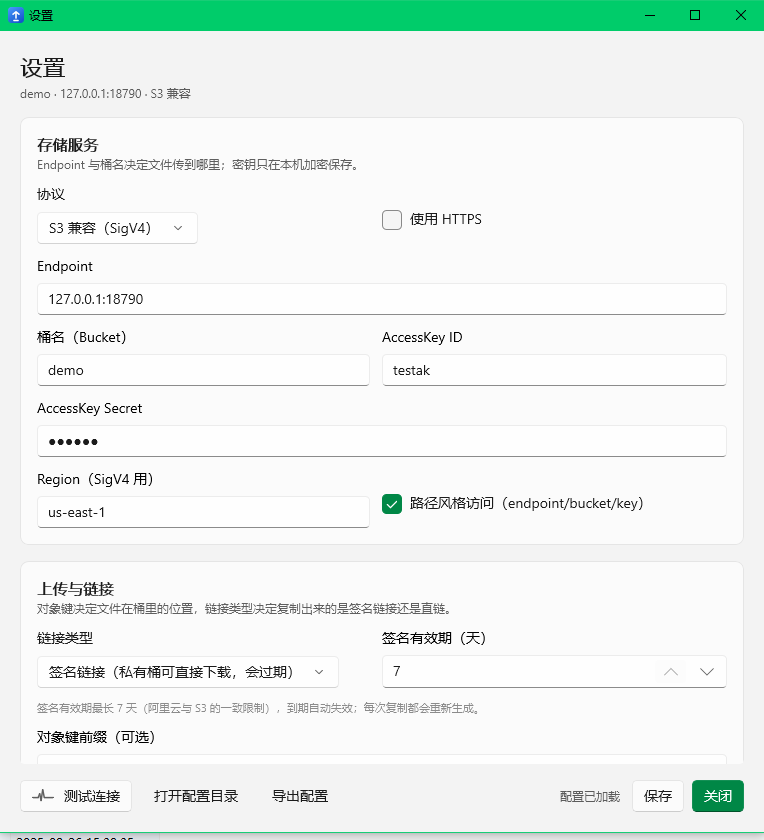
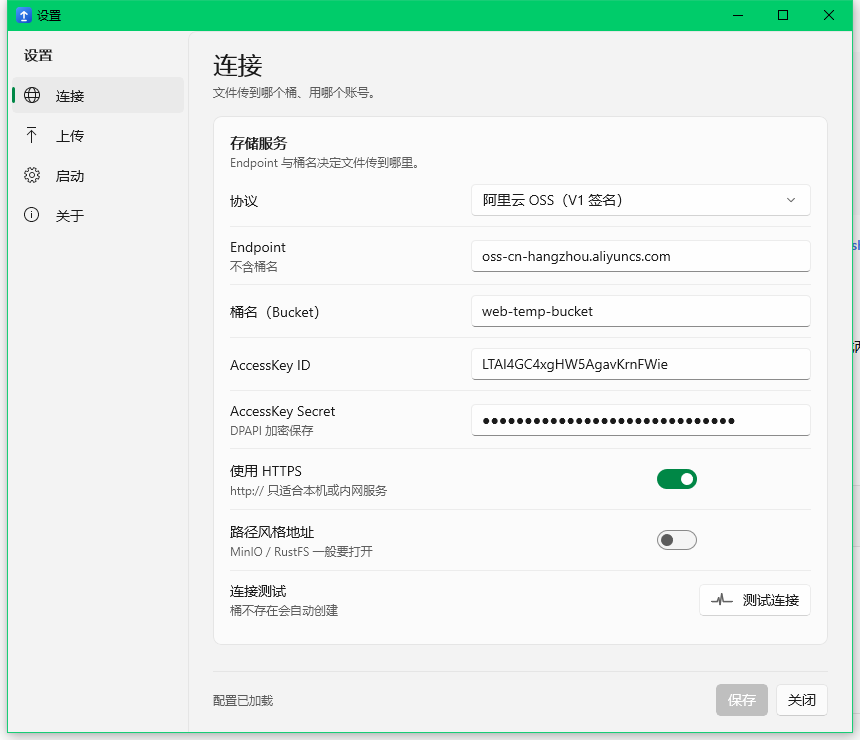
docs: 补设置页新布局、原生导航与保存策略的说明
- usage.md：设置项按「连接 / 上传 / 启动 / 关于」四个分类重写，写清开关即时保存、输入框点「保存」才落盘，
  以及带未保存输入关窗时的三个选项
- verification.md：记录 Fluent 排法、原生 NavigationView、860×740 一屏放得下，以及 16 项保存回归
- development.md：项目结构与回归脚本用法同步，补三个坑（Close() 在回调里不生效、UseClosingGuard 是钩子、
  原生导航项在 UIA 里是 ListItem）
- AGENTS.md：回归脚本表补 settings-save-test.ps1
- 换掉 docs/screenshot-settings.png

diff --git a/docs/development.md b/docs/development.md
@@ -70,7 +70,7 @@ src/FileUploader.App/               WinUI 3 + Reactor 界面
   UploadQueue.cs                    全局上传队列（主窗口与气泡共用）
   AppWindows.cs                     窗口切换：主窗口 / 设置 / 气泡 / 托盘图标与菜单
   UploadApp.Uploading.cs            上传队列（并发 3、进度、取消、历史落盘）
-  SettingsWindow.cs                 独立的设置窗口（存储 + 上传与链接 + 启动与托盘 + 关于与更新）
+  SettingsWindow.cs                 独立的设置窗口（左侧分类：连接 / 上传 / 启动 / 关于；输入框点「保存」才落盘）
   StartupRegistration.cs            开机自启（HKCU Run 启动项：写入 / 删除 / 启动时校正）
   AppVersion.cs                     当前版本号（来自 csproj 的 <Version>，发版时由 tag 覆盖）
   SingleInstance.cs                 同一份 exe 只跑一份（锁名带 exe 路径哈希，副本之间互不影响）
@@ -102,6 +102,13 @@ dotnet run --project tools\FileUploader.Verify -c Release -- multipart
 ```
 
 回归脚本清单与约定见 [AGENTS.md](../AGENTS.md) §5（全部在 `tools/` 下，优先 UI Automation 或直接消息断言，不依赖真实鼠标）。
+
+设置页的保存策略回归（会临时改 `settings.json` 里的 `KeyPrefix`，跑完自动改回去）：
+
+```powershell
+# 输入框不落盘 → 点保存才写盘 → 关窗提示 → 不保存丢草稿（16 项）
+pwsh -NoProfile -File tools\settings-save-test.ps1
+```
 
 更新的两条端到端回归：
 
@@ -209,7 +216,8 @@ pwsh -File tools\uia-resume-test.ps1 -DumpTexts -DumpButtons
 - **便携版不再自我替换**（0.4.0 起）：便携版就是用户手上的一个文件，自替换在 U 盘/只读目录/多副本场景下只会失败，而且用户没法留旧版回滚。现在便携版只「下载新版 + 给出路径和 SHA256」，替换留给人。
 - **静默升级要有人把程序拉起来**：应用启动安装器后自己就退出了，`[Run]` 里配 `Flags: nowait; Check: WizardSilent` —— 只在静默（=自动更新）时执行，交互式安装仍由用户在完成页勾选「运行」。
 - **从工作区里启动的 exe 会被沙箱化（低完整性）**：这类进程写不了 `%TEMP%`（写 `%TEMP%\FileUploader\update-x` 直接 `Access denied`），更新会失败。这是环境限制不是程序 bug —— 把 exe 放到工作区外（例如 `%LOCALAPPDATA%`）再测就正常；用 `Get-Process` 拿不到，需要读进程令牌的完整性级别才能看出来。
-- **Inno 卸载时"文件被占用"是常态**：卸载瞬间 exe 可能还被上一个进程的句柄占着，日志里是 `Failed to delete the file; it may be in use (5)`，Inno 会安排重启时删除；回归脚本里对这一点做了重试。- **后台进程抢不到前台**（托盘点击）：`SetForegroundWindow` 会被前台锁定规则静默拒绝，需要 `AttachThreadInput` 挂到当前前台线程（见 `WindowForeground`）。
+- **Inno 卸载时"文件被占用"是常态**：卸载瞬间 exe 可能还被上一个进程的句柄占着，日志里是 `Failed to delete the file; it may be in use (5)`，Inno 会安排重启时删除；回归脚本里对这一点做了重试。
+- **后台进程抢不到前台**（托盘点击）：`SetForegroundWindow` 会被前台锁定规则静默拒绝，需要 `AttachThreadInput` 挂到当前前台线程（见 `WindowForeground`）。
 - **单实例与自更新会打架**：自更新「先起新版再退自己」前必须交还实例锁，否则新版会当成第二份而退出。
 - **分片上传的签名要带上子资源**：`?uploads` / `?partNumber=N&uploadId=...` / `?uploadId=...` 都要进待签名字符串。OSS V1 只把**子资源**按名字排序拼进 CanonicalizedResource、**值不编码**（`?uploads` 连 `=` 都不要）；SigV4 则要求所有参数排序 + 严格编码、空值写成 `uploads=`。两者不能共用一套拼法（见 `ObjectStorageClient.BuildOssCanonicalResource` / `BuildSigV4CanonicalQuery`，`FileUploader.Verify multipart` 里有逐字符断言）。
 - **OSS 的 CompleteMultipartUpload 出错也回 200**：错误放在响应体里（`<Error>…`）。只看状态码会把"没合并成功"当成成功，链接打开是 404 —— 现在成功分支也会扫一遍响应体。
@@ -217,3 +225,8 @@ pwsh -File tools\uia-resume-test.ps1 -DumpTexts -DumpButtons
 - **续传必须沿用原来的对象键和分片大小**：键一变就是另一个对象，分片大小一变分片边界就跟服务端已经收下的那些对不上。所以会话里存了键和 `PartSize`，`UploadQueue` 在入队时先用 `MultipartUploader.FindPending` 找有没有可续传的会话并沿用它的键。
 - **RustFS 1.0.6 + Windows 绑挂目录（`-v ${PWD}\...:/data`）能初始化、能传分片，但 CompleteMultipartUpload 一定回 404 `NoSuchKey`**：`multipart/` 和 `multipart-index-v1/` 都在，`.mpu-completions/…/original.xl.meta` 也写了，就是合并不成功；换成 Docker 命名卷（或 Linux 主机）立刻正常。所以本地验证分片上传用命名卷；简单的 `PUT Object` 不受影响，这就是当初用绑挂目录也能跑通上传、下载、预签名链接的原因。
 - **RustFS 的 Abort 之后目录还在**：`.rustfs.sys/multipart/<hash>` 可能留一个空壳，但语义上已经没了（再拿这个 uploadId 去 Complete 会回 `NoSuchUpload`）。别拿"目录还在"当成没清掉。
+- **`ReactorWindow.Close()` 在按钮/对话框回调里不生效**：实测窗口不关，`Closing` 和关窗守卫一次都没被调用。改成把关闭投递到 UI 队列（`NativeWindow.DispatcherQueue.TryEnqueue(() => window.Close())`），走的是和点窗口 × 一样的路径。
+- **关窗守卫是"钩子"**：`UseClosingGuard(predicate)` 必须直接在 `Render` 里无条件调用；塞进 `UseEffect` 会被分析器拦下（`REACTOR_HOOKS_001`，钩子顺序不稳定），而且它返回 `void`，不用自己注销。
+- **UIA 的 `ValuePattern.SetValue` 落到受控 TextBox 上偶尔会粘出脏值**（重绘时挨着插入，出现过 `cfostmp-x` 这种）：回归脚本 SetValue 之后必须读回来比对，不一致就当场报错。
+- **点「保存」会重建页脚按钮**：紧接着的程序化点击偶尔落在旧按钮上而"没反应"（真人手速不会这么快）。回归脚本因此在保存后等一帧再继续点，关窗那一步允许重试一次。
+- **设置页的导航用原生 `NavigationView`**（`Factories.NavigationView(items, content)` + `with { SelectedTag = ... }`）：自己用 Button 拼一排导航，怎么调都差一口气——选中条、悬停、键盘导航、窄窗口收成图标栏这些系统行为都得手写。注意它在 UIA 里是 **ListItem + SelectionItemPattern**，不是 Button，回归脚本按名字找元素后要优先用 `SelectionItemPattern.Select()`。

diff --git a/docs/verification.md b/docs/verification.md
@@ -9,7 +9,7 @@
 - UI 生成的签名链接直接可用：界面上传两个文件后，用历史里的链接匿名 GET → 200 / 1900 字节、200 / 29 字节。
 - 对本机 Docker RustFS 端到端：拖入两个文件（含中文名/中文内容）→ `NoSuchBucket` 自动建桶并重试 → 上传成功 → 落盘字节与源文件逐字节一致。
 - 历史持久化：关掉程序重开，两条记录与链接仍在（截图即重启后的界面）。
-- 设置窗口用 UI 自动化（`tools/uia-settings.ps1`）实测过完整编辑链路：文本/密码/下拉/勾选都能保存到 `settings.json`，重开窗口回读正常，不点「保存」时 400ms 后也会自动落盘并显示「已保存 HH:mm:ss」。
+- 设置窗口用 UI 自动化（`tools/uia-settings.ps1`）实测过完整编辑链路：文本/密码/下拉/勾选都能保存到 `settings.json`，重开窗口回读正常。
 - 失败态：网络不可达时红色提示条 + 行内错误 + 「重试/移除」。
 - 整块点击热区实测：在拖拽区中心点一下，只弹 1 个系统文件对话框（`_isPicking` 连点保护），取消后无异常提示且不产生上传记录。
 - 简洁模式反复进出 4 次（每次新建/销毁原生气泡窗口）进程稳定，无 `crash.log`；气泡窗口意外消失时主窗口会自动恢复。
@@ -27,7 +27,7 @@
 - 600 个文件 / 58.6 MB 的文件夹：只发一次 `PUT`（62 MB 的 zip，600 个条目），临时 zip 传完即删；打包中途点「取消」（UIA 在「打包中 25%」时点）→ 行变「已取消」、没有 PUT、没有历史、没有残留临时文件。
 - 回归确认默认行为没变：关掉开关后，同一个文件夹仍是 3 个文件各自上传 3 次 `PUT`。
 - 单个文件不打包：`FileUploader.exe a.txt` 直接上传 `a.txt`；两个散文件 → 一个 `打包.zip`（里面 `a.txt` / `b.txt` 在根目录）。
-- 设置页开关用 UIA 实测（`tools/uia-settings.ps1 -ToggleZip`）：切换后 `settings.json` 里的 `ZipBatchUpload` 随之翻转（True → False），关窗口时自动落盘。
+- 设置页开关用 UIA 实测（`tools/uia-settings.ps1 -ToggleZip`）：切换后 `settings.json` 里的 `ZipBatchUpload` 随之翻转（True → False），不点「保存」也立刻落盘（开关是新设置页里唯一还会即时保存的一类）。
 - 顺带修掉一个真实卡顿：拖入 600 个文件的文件夹时，WinRT 逐个 `GetBasicPropertiesAsync` 读大小要 ≈55 秒（拖进去像卡死）；改成有真实路径时走 `System.IO` 快路径后，同一文件夹 2.0 秒就出现「打包中」那一行。
 - 修掉「窗口压在别的窗口下面时，点/双击托盘没反应」：根因是点托盘图标时用户输入是发给 shell 的，系统不认为本进程拿到最后一次输入，`SetForegroundWindow` 被前台锁定规则**静默拒绝**（实测返回 `false`：窗口一动不动，用「临时置顶再取消」也还是 `false`）。现在的做法是 `AttachThreadInput` 挂到当前前台线程 → `BringWindowToTop` → `SetForegroundWindow`（实测 `true`），最小化时先 `SW_RESTORE`；万一还是没拿到前台就写一条 `crash.log`（含两个 hwnd），不再静默失败。
 - 托盘激活的回归脚本 `tools/tray-activate-test.ps1`（`--bring-preview` 触发和点托盘完全相同的那条路径）：记事本当遮挡物 → 断言本程序窗口可见但不是前台 → 触发 → 断言前台变成 `OSS 拖拽上传`。**同一脚本在「注释掉修复」的构建上会 FAIL**（前台仍是记事本），说明它真的抓得住这个 bug。
@@ -51,3 +51,5 @@
 - **安装版静默升级端到端（`tools/update-installed-e2e-test.ps1`，本机假 feed 把已打好的安装包宣布成 9.9.9）**：设置页识别为「安装版」→ 检查更新显示「发现新版本 9.9.9」→ 按钮是「立即更新并重启」→ 点下去把安装包下到 `%LOCALAPPDATA%\FileUploader\update-9.9.9\`（SHA256 与 feed 一致）→ 旧进程退出 → **安装器的静默 `[Run]` 把程序重新拉起来**（新进程仍从安装目录启动）→ exe 健在。全部 21 项 PASS。
 - **便携版更新端到端（`tools/update-e2e-test.ps1`，本机假 feed）**：检查更新显示「发现新版本 9.9.9」+ 2 条变更；按钮是「下载新版」且**没有**「立即更新并重启」；摘要故意给错时报「校验失败…已丢弃」且不留文件、exe 哈希不变；换正确摘要后下到 `exe目录\update-9.9.9\`（SHA256 与 feed 一致），**当前 exe 哈希一点没变**、没有 `.new`/`.old` 中间文件，旧版照常能启动。全部 16 项 PASS。
 - 判定逻辑：`portable.txt` 存在 → 便携版；注册表 `InstallPath` 与当前 exe 目录一致 → 安装版；exe 被拷到别处 → 便携版（不会被自动替换）。三种情况分别用便携副本、装好的安装版、以及从工作区拷出来的副本验证过。
+- **设置页改成「左侧分类 + 右侧一页」并区分保存时机**（`tools/settings-save-test.ps1`，16 项全 PASS）：连接 / 上传 / 启动 / 关于 四个分类，每页一屏不再滚动（`连接` 页在 860×740 窗口里 7 行设置 + 2 个开关 + 测试按钮全部可见）。排法照 Windows 设置：左侧导航直接用 WinUI 原生 `NavigationView`（选中项左侧强调条、悬停、键盘操作都是系统样式，窗口变窄还能自动收成图标栏），页头大标题、卡片里「标题在左、控件在右」，行与行之间一条 1px 分隔线，窗口底色比卡片深一档（`SolidBackgroundFillColorBaseBrush`，深色主题自动跟着变）。输入框只改草稿——改完 `settings.json` 的 SHA256 一点没变、底部显示「有输入还没保存」、「保存」可点；点「保存」后磁盘才写入新值、提示变「已保存 HH:mm:ss」、「保存」随即变灰。开关类（使用 HTTPS / 按日期分组 / 打包 ZIP / 静默启动 / 开机自启……）点了立刻写盘，且不会干扰没保存的输入。带草稿点「关闭」或点窗口 X（`WM_CLOSE`）都会弹「有输入还没保存」，可选「保存并关闭 / 不保存 / 取消」：取消后窗口留着、草稿还在；不保存则关窗且磁盘保持上一次保存的值。回归脚本第二次连跑同样全 PASS。
+- 关窗口的两个坑（都已改进）：`ReactorWindow.Close()` 在按钮回调里直接调不生效（窗口不关、`Closing` 也不触发），改成投递到 UI 队列里再关；点「保存」后紧接着点「关闭」时，程序化点击偶尔落在刚被重建的页脚按钮上（真人手速不会这么快），回归脚本据此在保存后等一帧再点。

diff --git a/docs/troubleshooting.md b/docs/troubleshooting.md
@@ -7,7 +7,7 @@
 - 点任务栏右下角的托盘图标；Win10 默认会把它收进 `^` 溢出区，展开后才看得到。
 - 托盘右键 →「打开主窗口」。
 - 进托盘时右下角会有一次「已在托盘运行 / 点托盘图标打开」的气泡提示（约 4 秒）。
-- 想改成双击就弹窗口：设置 → 启动与托盘 → 关掉「静默启动」。
+- 想改成双击就弹窗口：设置 → 启动 → 关掉「静默启动」。
 
 顺带：同一份 exe 只会跑一份，重复双击不会多出进程——它会把已有窗口叫到前台。
 
@@ -52,7 +52,7 @@
 
 ## 拖拽浮现气泡没反应
 
-- 设置 → 启动与托盘 →「右下角拖拽浮现上传气泡」是否被关掉了。
+- 设置 → 启动 →「右下角拖拽浮现上传气泡」是否被关掉了。
 - 多屏时气泡会跟到光标所在那块屏；如果拖到屏幕边缘仍无反应，先确认拖的确实是**文件**（拖文本/拖图片不会弹出）。
 - 诊断日志：设环境变量 `FU_FLASH_DEBUG=1` 后气泡会往 `%TEMP%\fu-flash.log` 写状态。
 

diff --git a/AGENTS.md b/AGENTS.md
@@ -96,7 +96,8 @@ dotnet run --project tools\FileUploader.Verify -c Release
 
 | 脚本 | 覆盖内容 |
 |---|---|
-| `uia-settings.ps1` | 设置窗口编辑链路（UI Automation，不依赖鼠标） |
+| `uia-settings.ps1` | 设置窗口编辑链路（UI Automation，不依赖鼠标）：切分类、填输入框（改完读回校验）、点开关、点「保存/关闭」 |
+| `settings-save-test.ps1` | 设置页保存策略：输入框不落盘 → 点「保存」才写盘 → 带草稿关窗弹「保存并关闭 / 不保存 / 取消」（会临时改 `settings.json` 的 `KeyPrefix`，结束自动改回） |
 | `uia-history-search.ps1` | 历史记录：按文件名搜索 / 清除搜索 / 「下载」弹出的保存对话框（不依赖鼠标） |
 | `uia-resume-test.ps1` | 断点续传：列表里出现「已中断 · 已传 xx%」→ 点「继续」→ 等到「已上传」（前置：上传被打断过，见 `docs/development.md`） |
 | `uia-tray-menu.ps1` | 托盘菜单结构与点击 |

diff --git a/docs/deployment.md b/docs/deployment.md
@@ -40,7 +40,7 @@ powershell -File build-installer.ps1            # → dist\FileUploader-<版本>
 因为密钥用 DPAPI 加密、换机器解不开，所以分发靠一个**导出文件**：
 
 1. 自己机器上先配好、点「测试连接」确认可用。
-2. 设置窗口点 **「导出配置」** → 在 exe 同目录生成 `FileUploader.export.bin`。
+2. 设置窗口 → **关于** → 点 **「导出配置」** → 在 exe 同目录生成 `FileUploader.export.bin`。
 3. 把 `FileUploader.exe` + `FileUploader.export.bin` 放进同一个目录发给对方。
 4. 对方双击 exe：
    - 自动导入配置并写入本机存储（密钥重新用 DPAPI 加密）；
